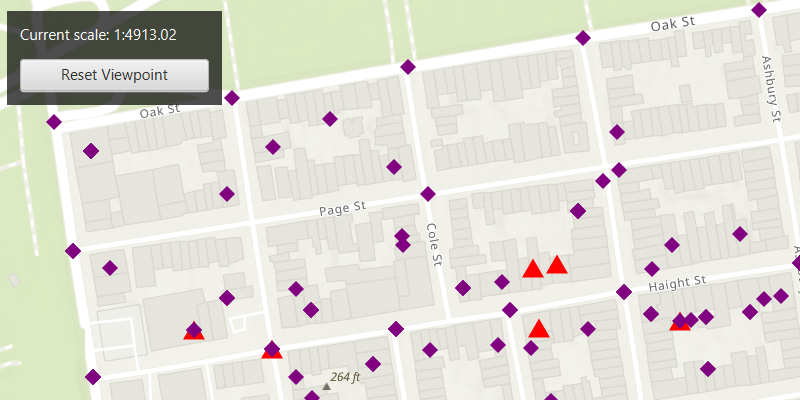
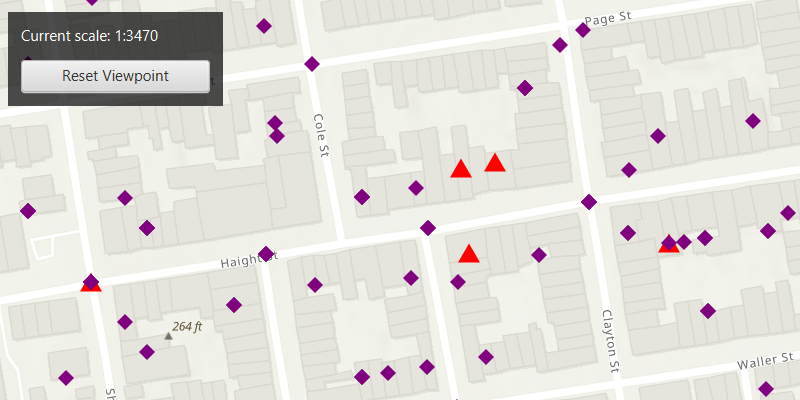
[New Sample] Apply Unique Values With Alternate Symbols
* Implemented all suggested changes from first PR review

diff --git a/symbology/apply-unique-values-with-alternate-symbols/src/main/java/com/esri/samples/apply_unique_values_with_alternate_symbols/ApplyUniqueValuesWithAlternateSymbolsSample.java b/symbology/apply-unique-values-with-alternate-symbols/src/main/java/com/esri/samples/apply_unique_values_with_alternate_symbols/ApplyUniqueValuesWithAlternateSymbolsSample.java
@@ -16,9 +16,9 @@
 
 package com.esri.samples.apply_unique_values_with_alternate_symbols;
 
+import java.text.DecimalFormat;
 import java.util.List;
 
-import com.esri.arcgisruntime.loadable.LoadStatus;
 import javafx.application.Application;
 import javafx.geometry.Insets;
 import javafx.geometry.Pos;
@@ -29,13 +29,13 @@ import javafx.scene.control.Label;
 import javafx.scene.layout.Background;
 import javafx.scene.layout.BackgroundFill;
 import javafx.scene.layout.CornerRadii;
-import javafx.scene.layout.HBox;
 import javafx.scene.layout.StackPane;
 import javafx.scene.layout.VBox;
 import javafx.scene.paint.Color;
 import javafx.scene.paint.Paint;
 import javafx.stage.Stage;
 
+import com.esri.arcgisruntime.loadable.LoadStatus;
 import com.esri.arcgisruntime.ArcGISRuntimeEnvironment;
 import com.esri.arcgisruntime.mapping.view.AnimationCurve;
 import com.esri.arcgisruntime.mapping.ArcGISMap;
@@ -54,14 +54,11 @@ import com.esri.arcgisruntime.symbology.UniqueValueRenderer;
 public class ApplyUniqueValuesWithAlternateSymbolsSample extends Application{
 
   private MapView mapView;
-
   private FeatureLayer featureLayer;
-
   private final static String FEATURE_SERVICE_URL = "https://sampleserver6.arcgisonline.com/arcgis/rest/services/SF311/FeatureServer/0";
-
-  private Button btnReset;
-
-  private Label lblScale;
+  private Button button;
+  private Label label;
+  private VBox vBox;
 
   @Override
   public void start(Stage stage) {
@@ -82,9 +79,6 @@ public class ApplyUniqueValuesWithAlternateSymbolsSample extends Application{
       String yourAPIKey = System.getProperty("apiKey");
       ArcGISRuntimeEnvironment.setApiKey(yourAPIKey);
 
-      // create a point located at San Francisco, CA to be used as the viewpoint for the map
-      Point vPoint = new Point(-13631205.660131, 4546829.846004, SpatialReferences.getWebMercator());
-
       // create a map with the standard imagery basemap style
       ArcGISMap map = new ArcGISMap(BasemapStyle.ARCGIS_TOPOGRAPHIC);
 
@@ -92,80 +86,77 @@ public class ApplyUniqueValuesWithAlternateSymbolsSample extends Application{
       mapView = new MapView();
       mapView.setMap(map);
 
+      // create a point located at San Francisco, CA to be used as the viewpoint for the map
+      var point = new Point(-13631205.660131, 4546829.846004, SpatialReferences.getWebMercator());
+
       // set a viewpoint to the map view centered on a point
-      mapView.setViewpointCenterAsync(vPoint, 25000.0);
+      mapView.setViewpointCenterAsync(point, 25000.0);
 
-      // creating box, button, and label UI components
-      VBox vBox = controlsVBox();
+      // create a controls vbox, button, and label UI components
+      setUpControlsVBox();
 
-      // resetting map viewpoint on button press
-      btnReset.setOnAction(event -> {
+      var viewpoint = new Viewpoint(point, 25000);
+      button.setOnAction(event -> {
         // reset the map viewpoint
-        mapView.setViewpointAsync(new Viewpoint(vPoint, 25000.0), 1.5f, AnimationCurve.EASE_IN_OUT_SINE);
+        mapView.setViewpointAsync(viewpoint, 1.5f, AnimationCurve.EASE_IN_OUT_SINE);
       });
 
-      // updating label scale values
+      DecimalFormat decFormat = new DecimalFormat("#");
       mapView.addViewpointChangedListener(event->
-        // update label text
-        lblScale.setText("Current scale: 1:" + String.format("%.2f", mapView.getMapScale())));
+        // update label text and formatting scale values
+        label.setText("Current scale: 1:" + decFormat.format(mapView.getMapScale())));
 
-      // creating simple markers where the blue square and yellow diamond are alternate symbols
+      // create simple marker symbols where the blue square and yellow diamond are alternate symbols
       // the red triangle is used to create a unique symbol and the purple diamond is the default symbol for the unique value renderer
-      SimpleMarkerSymbol sBlueSquareSymbol = new SimpleMarkerSymbol(SimpleMarkerSymbol.Style.SQUARE, 0xFF0000FF, 15);
-      SimpleMarkerSymbol sYellowDiamondSymbol = new SimpleMarkerSymbol(SimpleMarkerSymbol.Style.DIAMOND, 0xFFFFFF00, 15);
-      SimpleMarkerSymbol sRedTriangleSymbol = new SimpleMarkerSymbol(SimpleMarkerSymbol.Style.TRIANGLE, 0xFFFF0000, 15);
-      SimpleMarkerSymbol sPurpleDiamondSymbol = new SimpleMarkerSymbol(SimpleMarkerSymbol.Style.DIAMOND, 0xFF800080, 12);
+      SimpleMarkerSymbol simpleBlueSquareSymbol = new SimpleMarkerSymbol(SimpleMarkerSymbol.Style.SQUARE, 0xFF0000FF, 15);
+      SimpleMarkerSymbol simpleYellowDiamondSymbol = new SimpleMarkerSymbol(SimpleMarkerSymbol.Style.DIAMOND, 0xFFFFFF00, 15);
+      SimpleMarkerSymbol simpleRedTriangleSymbol = new SimpleMarkerSymbol(SimpleMarkerSymbol.Style.TRIANGLE, 0xFFFF0000, 15);
+      SimpleMarkerSymbol simplePurpleDiamondSymbol = new SimpleMarkerSymbol(SimpleMarkerSymbol.Style.DIAMOND, 0xFF800080, 12);
 
-      // converting simpler marker symbols to multilayer point symbols
-      MultilayerPointSymbol mBlueSquareSymbol = sBlueSquareSymbol.toMultilayerSymbol();
-      MultilayerPointSymbol mYellowDiamondSymbol = sYellowDiamondSymbol.toMultilayerSymbol();
-      MultilayerPointSymbol mRedTriangleSymbol = sRedTriangleSymbol.toMultilayerSymbol();
-      MultilayerPointSymbol mPurpleDiamondSymbol = sPurpleDiamondSymbol.toMultilayerSymbol();
+      // convert simple marker symbols to multilayer point symbols
+      MultilayerPointSymbol multilayerBlueSquareSymbol = simpleBlueSquareSymbol.toMultilayerSymbol();
+      MultilayerPointSymbol multilayerYellowDiamondSymbol = simpleYellowDiamondSymbol.toMultilayerSymbol();
+      MultilayerPointSymbol multilayerRedTriangleSymbol = simpleRedTriangleSymbol.toMultilayerSymbol();
+      MultilayerPointSymbol multilayerPurpleDiamondSymbol = simplePurpleDiamondSymbol.toMultilayerSymbol();
 
-      // setting scale range values through reference properties for the multilayer symbols
-      SymbolReferenceProperties blueSquareRef = new SymbolReferenceProperties(10000.0, 5000.0);
-      SymbolReferenceProperties yellowDiamondRef = new SymbolReferenceProperties(20000.0, 10000.0);
-      SymbolReferenceProperties redTriangleRef = new SymbolReferenceProperties(5000.0, 0.0);
+      // set scale range values through reference properties for the multilayer symbols
+      multilayerBlueSquareSymbol.setReferenceProperties(new SymbolReferenceProperties(10000.0, 5000.0));
+      multilayerYellowDiamondSymbol.setReferenceProperties(new SymbolReferenceProperties(20000.0, 10000.0));
+      multilayerRedTriangleSymbol.setReferenceProperties(new SymbolReferenceProperties(5000.0, 0.0));
 
-      mBlueSquareSymbol.setReferenceProperties(blueSquareRef);
-      mYellowDiamondSymbol.setReferenceProperties(yellowDiamondRef);
-      mRedTriangleSymbol.setReferenceProperties(redTriangleRef);
+      // create unique value for the red triangle and list of alternate symbols
+      var uniqueValue = new UniqueValueRenderer.UniqueValue("unique values based on request type", "unique value",
+          multilayerRedTriangleSymbol, List.of("Damaged Property"), List.of(multilayerBlueSquareSymbol, multilayerYellowDiamondSymbol));
 
-      // Creating unique value for the red triangle and list of alternate symbols
-      UniqueValueRenderer.UniqueValue uniqueValue =
-        new UniqueValueRenderer.UniqueValue("unique values based on request type", "unique value",
-          mRedTriangleSymbol, List.of("Damaged Property"), List.of(mBlueSquareSymbol, mYellowDiamondSymbol));
+      // create unique value renderer
+      var uniqueValRenderer = new UniqueValueRenderer(List.of("req_type"), List.of(uniqueValue), "", multilayerPurpleDiamondSymbol);
 
-      // Creating unique value renderer
-      UniqueValueRenderer uniqueValRenderer = new UniqueValueRenderer();
-      uniqueValRenderer.getUniqueValues().add(uniqueValue);
-      uniqueValRenderer.getFieldNames().add(("req_type"));
+      // apply default symbol for the unique value renderer.
+      uniqueValRenderer.setDefaultSymbol(multilayerPurpleDiamondSymbol);
 
-      // Applying default symbol for the unique value renderer.
-      uniqueValRenderer.setDefaultSymbol(mPurpleDiamondSymbol);
+      // create a service feature table using the url
+      final var serviceFeatureTable = new ServiceFeatureTable(FEATURE_SERVICE_URL);
 
-      // creating a service feature table using the url
-      final ServiceFeatureTable featureTable = new ServiceFeatureTable(FEATURE_SERVICE_URL);
+      // create a feature layer from the service feature table
+      featureLayer = new FeatureLayer(serviceFeatureTable);
 
-      // creating a feature layer from the service feature table
-      featureLayer = new FeatureLayer(featureTable);
-
-      // setting the unique value renderer on the feature layer
+      // set the unique value renderer on the feature layer
       featureLayer.setRenderer(uniqueValRenderer);
 
-      // waiting for the feature layer to load
-      featureLayer.loadAsync();
-
-      featureLayer.addDoneLoadingListener(()->{
-        if (featureLayer.getLoadStatus() == LoadStatus.LOADED) {
-          // adding feature layer to ArcGISMap
+      // check the service feature table has loaded before adding the feature layer to the map
+      serviceFeatureTable.addDoneLoadingListener( () -> {
+        if (serviceFeatureTable.getLoadStatus() == LoadStatus.LOADED) {
           map.getOperationalLayers().add(featureLayer);
+          vBox.setDisable(false);
         } else {
-          new Alert(Alert.AlertType.ERROR, "Error loading Feature Table from service" + featureLayer.getLoadError().getMessage()).show();
+          new Alert(Alert.AlertType.ERROR,
+            "Error loading Feature Table from service" + serviceFeatureTable.getLoadError().getMessage()).show();
         }
       });
+      // load the service feature table
+      serviceFeatureTable.loadAsync();
 
-      // adding the map view and UI elements to the stack pane
+      // add the map view and UI elements to the stack pane
       stackPane.getChildren().addAll(mapView, vBox);
       StackPane.setAlignment(vBox, Pos.TOP_LEFT);
       StackPane.setMargin(vBox, new Insets(10, 0, 0, 10));
@@ -178,33 +169,23 @@ public class ApplyUniqueValuesWithAlternateSymbolsSample extends Application{
 
   /**
    * Creates a UI with three buttons and a label.
-   * @return a vBox populated with buttons and labels
    */
-  private VBox controlsVBox() {
+  private void setUpControlsVBox() {
 
     // creating label to show scale values and button to reset viewpoint
-    lblScale = new Label("Current scale: 1:25000.00");
-    lblScale.setTextFill(Color.WHITE);
-    btnReset = new Button("Reset Viewpoint");
+    label = new Label("Current scale: 1:25000");
+    label .setTextFill(Color.WHITE);
+    button = new Button("Reset Viewpoint");
 
-    // creating and setting a box to hold the scale label and reset button
-    VBox vBox = new VBox(5);
-    vBox.setMinWidth(150);
-    vBox.getChildren().addAll(btnReset);
-    btnReset.prefWidthProperty().bind(vBox.widthProperty());
-
-    VBox controlsVBox = new VBox(10);
-    controlsVBox.setBackground(new Background(new BackgroundFill(Paint.valueOf("rgba(0,0,0,0.7)"),
+    vBox = new VBox(10);
+    vBox.setBackground(new Background(new BackgroundFill(Paint.valueOf("rgba(0,0,0,0.6)"),
       CornerRadii.EMPTY, Insets.EMPTY)));
-    controlsVBox.setPadding(new Insets(10.0));
-    controlsVBox.setMaxSize(150, 75);
-    controlsVBox.getStyleClass().add("panel-region");
+    vBox.setPadding(new Insets(10.0));
+    vBox.setMaxSize(180, 75);
+    vBox.setDisable(true);
 
-    HBox hBox = new HBox();
-    hBox.getChildren().addAll(lblScale);
-    controlsVBox.getChildren().addAll(hBox, vBox);
+    vBox.getChildren().addAll(label, button);
 
-    return controlsVBox;
   }
 
   /**

diff --git a/symbology/apply-unique-values-with-alternate-symbols/src/main/java/com/esri/samples/apply_unique_values_with_alternate_symbols/ApplyUniqueValuesWithAlternateSymbolsLauncher.java b/symbology/apply-unique-values-with-alternate-symbols/src/main/java/com/esri/samples/apply_unique_values_with_alternate_symbols/ApplyUniqueValuesWithAlternateSymbolsLauncher.java
@@ -5,5 +5,7 @@ package com.esri.samples.apply_unique_values_with_alternate_symbols;
  */
 public class ApplyUniqueValuesWithAlternateSymbolsLauncher {
 
-  public static void main(String[] args) { ApplyUniqueValuesWithAlternateSymbolsSample.main(args); }
+  public static void main(String[] args) {
+    ApplyUniqueValuesWithAlternateSymbolsSample.main(args);
+  }
 }

diff --git a/symbology/apply-unique-values-with-alternate-symbols/README.md b/symbology/apply-unique-values-with-alternate-symbols/README.md
@@ -2,7 +2,7 @@
 
 Apply a unique value with alternate symbols at different scales.
 
-![ApplyUniqueValuesWithAlternateSymbols](ApplyUniqueValuesWithAlternateSymbols.gif)
+![ApplyUniqueValuesWithAlternateSymbols](ApplyUniqueValuesWithAlternateSymbols.png)
 
 ## Use case
 
@@ -12,26 +12,21 @@ Once scale ranges are applied to unique values, you can further refine the appea
 
 ## How to use the sample
 
-Zoom in and out of the map to see alternate symbols at each scale. The symbology changes according to the following scale ranges: 0-5000, 5000-10000, 10000-20000. To go back to the initial viewpoint, tap "Reset Viewpoint".
+Zoom in and out of the map to see alternate symbols at each scale. The symbology changes according to the following scale ranges: 1:0-1:5000, 1:5000-1:10000, 1:10000-1:20000. To go back to the initial viewpoint, click "Reset Viewpoint".
 
 ## How it works
 
 1. Create a `FeatureLayer` using the service url and add it to the map's list of operational layers.
-2. Create two alternate symbols (a blue square and a yellow diamond) to be used as alternate symbols. To create an alternate symbol:
+2. Create two alternate symbols:
 
    a. Create a symbol using `SimpleMarkerSymbol`.
-
    b. Convert the simple marker symbol to a `MultilayerPointSymbol` using `SimpleMarkerSymbol.toMultilayerSymbol()`.
+   c. Set the valid scale range through reference properties on the multilayer point symbols by calling `multilayerPointSymbol.referenceProperties = SymbolReferenceProperties(double minScale, double maxScale)`.
 
-   c. Set the valid scale range through reference properties on the multilayer point symbols blue square and yellow diamond by calling `multilayerPointSymbol.referenceProperties = SymbolReferenceProperties(double minScale, double maxScale)`.
-
-3. Create a third multilayer symbol to be used to create a `UniqueValue` class.
-4. Create a unique value using the red triangle and the list of alternate symbols.
-5. Create a `UniqueValueRenderer` and add the unique value.
-6. Create a purple diamond simple marker and convert it to a multilayer symbol to be used as the default symbol.
-7. Set the default symbol on the unique value renderer to the purple diamond using `uniqueValueRenderer.defaultSymbol`.
-8. Set the `uniqueValueRenderer.fieldNames` on the unique value renderer to "req_type".
-9. Apply this unique value renderer to the `featureLayer.renderer`.
+3. Create a new `UniqueValue`, and add it to a new `UniqueValueRenderer` with `uniqueValueRenderer.getUniqueValues.add(uniqueValue)`
+4. Set the default symbol on the unique value renderer to a multilayer point symbol with `uniqueValueRenderer.setDefaultSymbol(multilayerPointSymbol)`.
+5. Set the field name on the unique value renderer with `uniqueValueRenderer.getFieldNames().add(("req_type))`.
+6. Apply this unique value renderer to the feature layer with `featureLayer.setRenderer(uniqueValueRenderer)`.
 
 ## Relevant API
 
@@ -39,6 +34,7 @@ Zoom in and out of the map to see alternate symbols at each scale. The symbology
 * SimpleMarkerSymbol
 * SymbolReferenceProperties
 * UniqueValue
+* 
 * UniqueValueRenderer
 
 ## About the data
